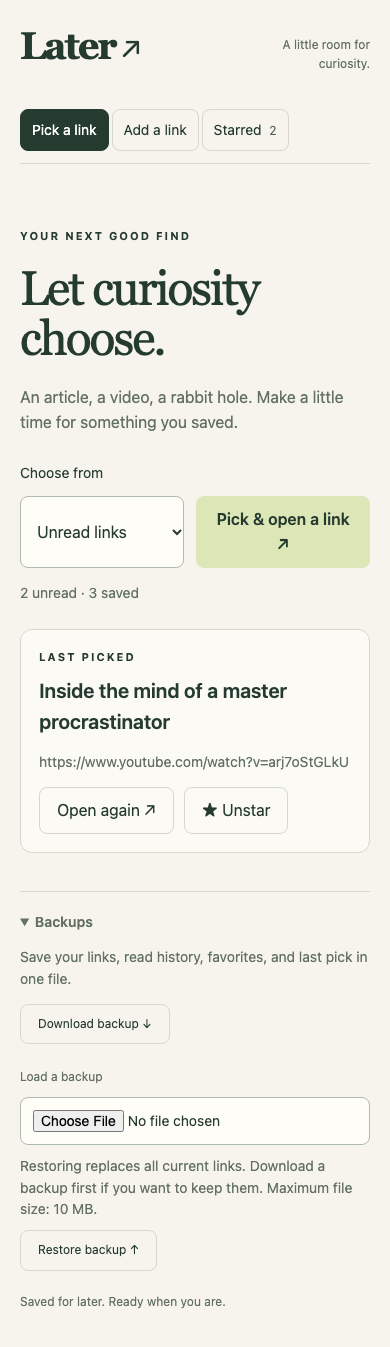
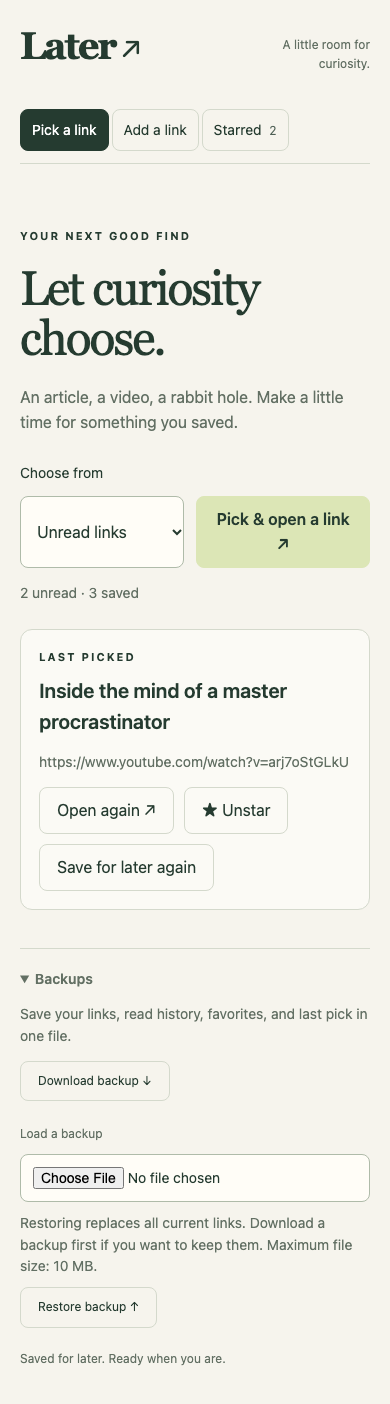
Allow saving the last picked link as unread again

diff --git a/templates/index.html b/templates/index.html
@@ -7,7 +7,7 @@
 <p id="message" role="status" aria-live="polite"></p>
 <section id="read" class="view"><div class="eyebrow">YOUR NEXT GOOD FIND</div><h1>Let curiosity<br>choose.</h1><p class="intro">An article, a video, a rabbit hole. Make a little time for something you saved.</p>
 <div class="pick-controls"><label for="mode">Choose from</label><select id="mode"><option value="unread">Unread links</option><option value="all">All links</option></select><button id="pop" class="primary">Pick & open a link ↗</button></div><p id="counts" class="muted"></p>
-<article id="last" hidden><div class="eyebrow">LAST PICKED</div><h2 id="last-description"></h2><p id="last-url" class="url"></p><div class="actions"><a id="reopen" target="_blank" rel="noopener noreferrer" class="button">Open again ↗</a><button id="star">☆ Star</button></div></article>
+<article id="last" hidden><div class="eyebrow">LAST PICKED</div><h2 id="last-description"></h2><p id="last-url" class="url"></p><div class="actions"><a id="reopen" target="_blank" rel="noopener noreferrer" class="button">Open again ↗</a><button id="star">☆ Star</button><button id="requeue">Save for later again</button></div></article>
 </section>
 <section id="add" class="view" hidden><div class="eyebrow">SAVE A LITTLE SOMETHING</div><h1>For another<br>moment.</h1><form id="add-form"><label for="url">Link</label><input id="url" name="url" type="url" placeholder="https://…" required maxlength="4096" autocomplete="url"><label for="description">Description <span class="muted">(optional)</span></label><textarea id="description" name="description" rows="3" maxlength="2000" placeholder="What caught your eye?"></textarea><button class="primary" type="submit">Save for later +</button></form></section>
 <section id="starred" class="view" hidden><div class="eyebrow">THE KEEPERS</div><h1>Worth coming<br>back to.</h1><p class="intro">Your favorites, all in one place.</p><button id="pop-starred" class="primary">Pick & open a starred link ↗</button><div id="starred-list"></div></section>

diff --git a/static/app.js b/static/app.js
@@ -17,6 +17,8 @@ function renderLast() {
   $("reopen").href = last.url;
   $("star").textContent = last.starred ? "★ Unstar" : "☆ Star";
   $("star").setAttribute("aria-pressed", String(last.starred));
+  $("requeue").textContent = last.is_read ? "Save for later again" : "Saved for later again";
+  $("requeue").disabled = !last.is_read;
 }
 async function refresh() {
   const data = await api("/api/state");
@@ -70,6 +72,15 @@ document.querySelectorAll("[data-view]").forEach(el => el.addEventListener("clic
 $("pop").addEventListener("click", () => pop($("mode").value));
 $("pop-starred").addEventListener("click", () => pop("starred"));
 $("star").addEventListener("click", async () => { if (!last) return; $("star").disabled = true; try { await setStar(last, !last.starred); } catch (error) { message(error.message, true); } finally { $("star").disabled = false; } });
+$("requeue").addEventListener("click", async () => {
+  if (!last || !last.is_read) return;
+  $("requeue").disabled = true;
+  try {
+    await api(`/api/items/${last.id}/unread`, "POST", {});
+    await refresh();
+    message("Saved for later again. This link is unread and can be picked another time.");
+  } catch (error) { message(error.message, true); renderLast(); }
+});
 $("add-form").addEventListener("submit", async event => {
   event.preventDefault(); const button = event.target.querySelector("button"); button.disabled = true;
   try { await api("/api/items", "POST", {url: $("url").value, description: $("description").value}); event.target.reset(); await refresh(); message("Saved for later."); $("url").focus(); }

diff --git a/tests/test_app.py b/tests/test_app.py
@@ -109,6 +109,32 @@ class LaterTests(unittest.TestCase):
         self.assertEqual(self.pop().json["item"]["description"], entry["description"])
         self.assertEqual(self.client.get("/api/state").json["counts"]["total"], 1)
 
+    def test_save_for_later_again_preserves_link_favorite_and_last(self):
+        entry = self.add(description="A long video")
+        self.pop()
+        self.write(f"/api/items/{entry['id']}/star", {"starred": True}, "PATCH")
+        response = self.write(f"/api/items/{entry['id']}/unread", {})
+        self.assertEqual(response.status_code, 200)
+        self.assertFalse(response.json["item"]["is_read"])
+        self.assertTrue(response.json["item"]["starred"])
+        self.assertEqual(response.json["item"]["description"], "A long video")
+        state = self.client.get("/api/state").json
+        self.assertEqual(state["counts"], {"total": 1, "unread": 1, "starred": 1})
+        self.assertEqual(state["last"]["id"], entry["id"])
+        self.assertFalse(state["last"]["is_read"])
+        # Repeating the request is harmless and does not duplicate the link.
+        self.assertEqual(self.write(f"/api/items/{entry['id']}/unread", {}).status_code, 200)
+        restarted = create_app({"TESTING": True, "DATABASE": self.database}).test_client()
+        self.assertFalse(restarted.get("/api/state").json["last"]["is_read"])
+        picked = self.pop().json["item"]
+        self.assertEqual(picked["id"], entry["id"])
+        self.assertTrue(picked["is_read"])
+        self.assertTrue(picked["starred"])
+
+    def test_save_for_later_again_missing_link_and_write_protection(self):
+        self.assertEqual(self.write("/api/items/999/unread", {}).status_code, 404)
+        self.assertEqual(self.client.post("/api/items/1/unread", json={}).status_code, 403)
+
     def test_backup_roundtrip_preserves_everything(self):
         first = self.add(description="A favorite — café")
         self.pop()

diff --git a/tests/browser_smoke.py b/tests/browser_smoke.py
@@ -109,8 +109,20 @@ def run(engines, screenshots=None):
                     assert page.evaluate("document.documentElement.scrollWidth <= window.innerWidth")
                     if screenshots:
                         page.screenshot(path=str(screenshots / f"{engine}-backups-mobile.png"), full_page=True)
+                    page.get_by_role("button", name="Pick a link", exact=True).click()
+                    page.get_by_role("button", name="Save for later again", exact=True).click()
+                    expect(page.get_by_role("status")).to_contain_text("This link is unread")
+                    expect(page.locator("#counts")).to_have_text("1 unread · 1 saved")
+                    expect(page.locator("#requeue")).to_be_disabled()
+                    page.reload()
+                    expect(page.locator("#counts")).to_have_text("1 unread · 1 saved")
+                    expect(page.locator("#requeue")).to_be_disabled()
+                    page.evaluate("window.open = () => null")
+                    page.locator("#pop").click()
+                    expect(page.locator("#counts")).to_have_text("0 unread · 1 saved")
+                    expect(page.locator("#requeue")).to_be_enabled()
                     assert not errors, errors
-                    print(f"PASS {engine}: add, pop/new tab, read state, star/unstar, reload, reopen, starred pop, empty queue, blocked popup, responsive layout, backup download/upload, cancel restore, invalid file")
+                    print(f"PASS {engine}: add, pop/new tab, read state, star/unstar, reload, reopen, starred pop, empty queue, blocked popup, responsive layout, backup download/upload, cancel restore, invalid file, mark unread and repick")
                 finally:
                     browser.close()
                     server.shutdown()

diff --git a/app.py b/app.py
@@ -215,6 +215,14 @@ def create_app(test_config=None):
             return jsonify(error="Link not found."), 404
         return jsonify(item=item(db().execute("SELECT * FROM items WHERE id=?", (item_id,)).fetchone()))
 
+    @app.post("/api/items/<int:item_id>/unread")
+    def mark_unread(item_id):
+        with db():
+            cursor = db().execute("UPDATE items SET is_read=0 WHERE id=?", (item_id,))
+        if not cursor.rowcount:
+            return jsonify(error="Link not found."), 404
+        return jsonify(item=item(db().execute("SELECT * FROM items WHERE id=?", (item_id,)).fetchone()))
+
     return app
 
 

diff --git a/README.md b/README.md
@@ -46,6 +46,7 @@ Use `LATER_HOST=0.0.0.0` for LAN access. This personal app has no login: everyon
 
 - **Add a link:** paste a full `http://` or `https://` URL. The description is optional.
 - **Pick a link:** choose unread links or all links. A random pick is immediately marked read and opens in a new tab. Keep the Later tab open to star/unstar it or open the last pick again.
+- **Too long for right now?** Click **Save for later again** on the last pick to mark it unread. It stays available to reopen and keeps its favorite status. It can be picked again immediately, including on your next unread pick.
 - **Starred:** browse favorites, unstar them, or randomly open one again. Random starred picks also become the last pick.
 
 If the browser blocks the new tab, use **Open again** on the selected item. Read means picked, even if its page fails to load. All/Starred selections may repeat items. The last pick and favorites are shared across devices and survive restarts.
